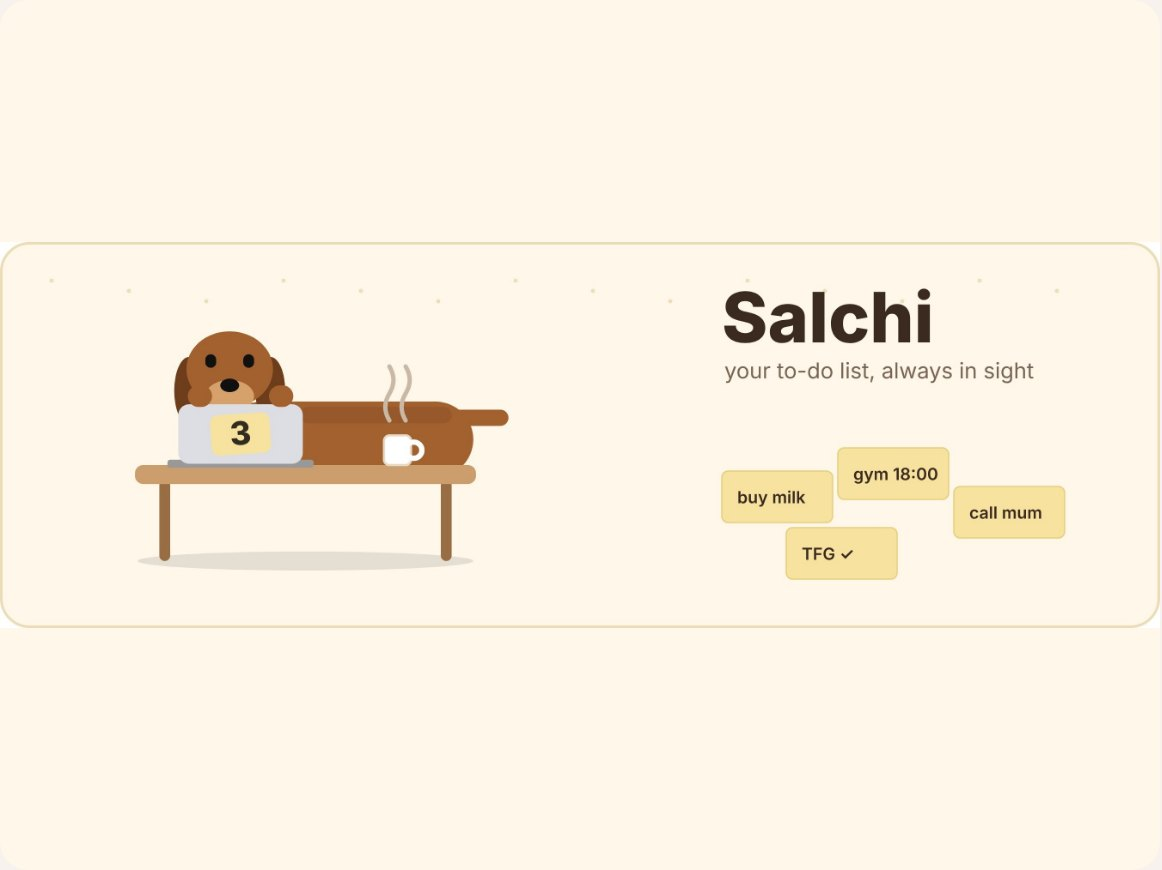
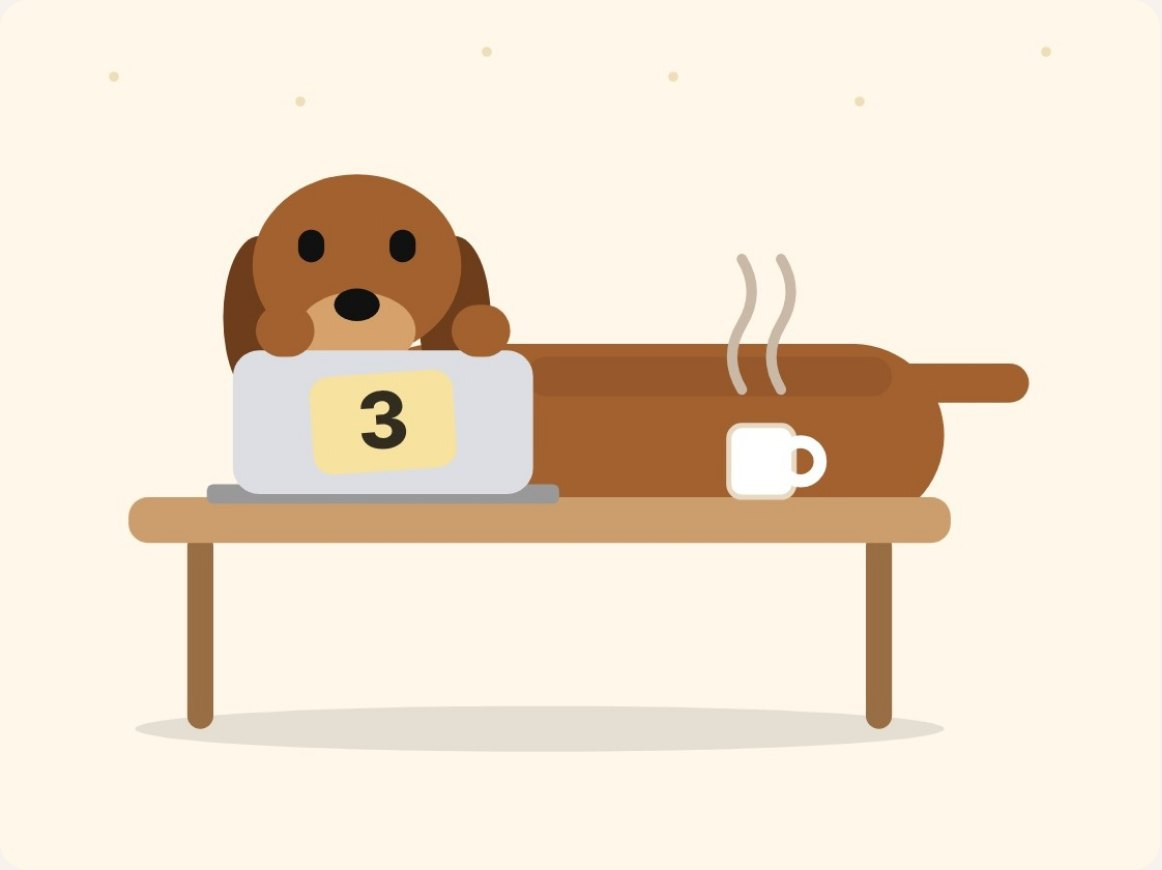
Use dog-only cover for Salchi

Changed region(s): [[0.031, 0.1862, 0.9604, 0.869], [0.9914, 0.2793, 1.0, 0.7138], [0.0, 0.2793, 0.031, 0.3103]]

diff --git a/index.html b/index.html
@@ -84,7 +84,6 @@ main{padding-top:calc(96px + env(safe-area-inset-top,0px))}
 .ph canvas{display:block; width:100%; height:100%; transition:transform .7s cubic-bezier(.2,.7,.2,1)}
 .card:hover .ph canvas{transform:scale(1.035)}
 .ph img{display:block; width:100%; height:100%; object-fit:contain}
-.detail .ph.wide.banner{aspect-ratio:3/1}
 .cta{position:absolute; top:14px; right:14px; background:var(--bg); color:var(--ink); border-radius:999px; padding:9px 14px}
 .cap{display:flex; justify-content:space-between; gap:16px; margin-top:12px}
 .cap .idx{color:var(--mute)}
@@ -909,7 +908,7 @@ var P = [
     var meta = '<dl class="meta"><div><dt class="mono">' + L(T.type) + '</dt><dd>' + L(p.type) + '</dd></div><div><dt class="mono">' + L(T.stack) + '</dt><dd>' + p.stack + '</dd></div><div><dt class="mono">' + L(T.methods) + '</dt><dd>' + p.methods + '</dd></div><div><dt class="mono">' + L(T.repo) + '</dt><dd>' + (p.repo ? '<a href="' + GH + p.repo + '" target="_blank" rel="noopener" style="border-bottom:1px solid currentColor">github/' + (p.repoLabel || p.repo) + '</a>' : L(T.noRepo)) + '</dd></div></dl>';
     var figs = p.figs.length ? '<div class="figs">' + p.figs.map(function (f) { return '<div><b>' + f.v + '</b><span>' + L(f.d) + '</span></div>'; }).join('') + '</div>' : '';
     var secs = p.secs.map(function (s) { return '<section class="cs"><h2 class="cs-l">' + L(s.h) + '</h2><div class="cs-r">' + s.b.map(blk).join('') + '</div></section>'; }).join('');
-    return '<div class="wrap detail"><div class="ph wide' + (p.img ? ' banner' : '') + '"' + coverStyle(p) + '>' + cover(p) + '</div>' + (p.img ? '' : '<p class="mono cap-note">' + L(T.artNote) + '</p>') +
+    return '<div class="wrap detail"><div class="ph wide' + '"' + coverStyle(p) + '>' + cover(p) + '</div>' + (p.img ? '' : '<p class="mono cap-note">' + L(T.artNote) + '</p>') +
       '<h1 class="dt-title">' + p.name + '</h1><p class="lead">' + L(p.lead) + '</p>' + meta + figs +
       '<div class="cs-wrap">' + secs + '</div>' +
       (p.repo ? '<a class="pill-link" href="' + GH + p.repo + '" target="_blank" rel="noopener"><span class="pill">' + L(T.repoBtn) + ' ↗</span></a>' : '') + (p.live ? ' <a class="pill-link" href="' + p.live + '" target="_blank" rel="noopener"><span class="pill">' + L(T.liveBtn) + ' ↗</span></a>' : '') +
